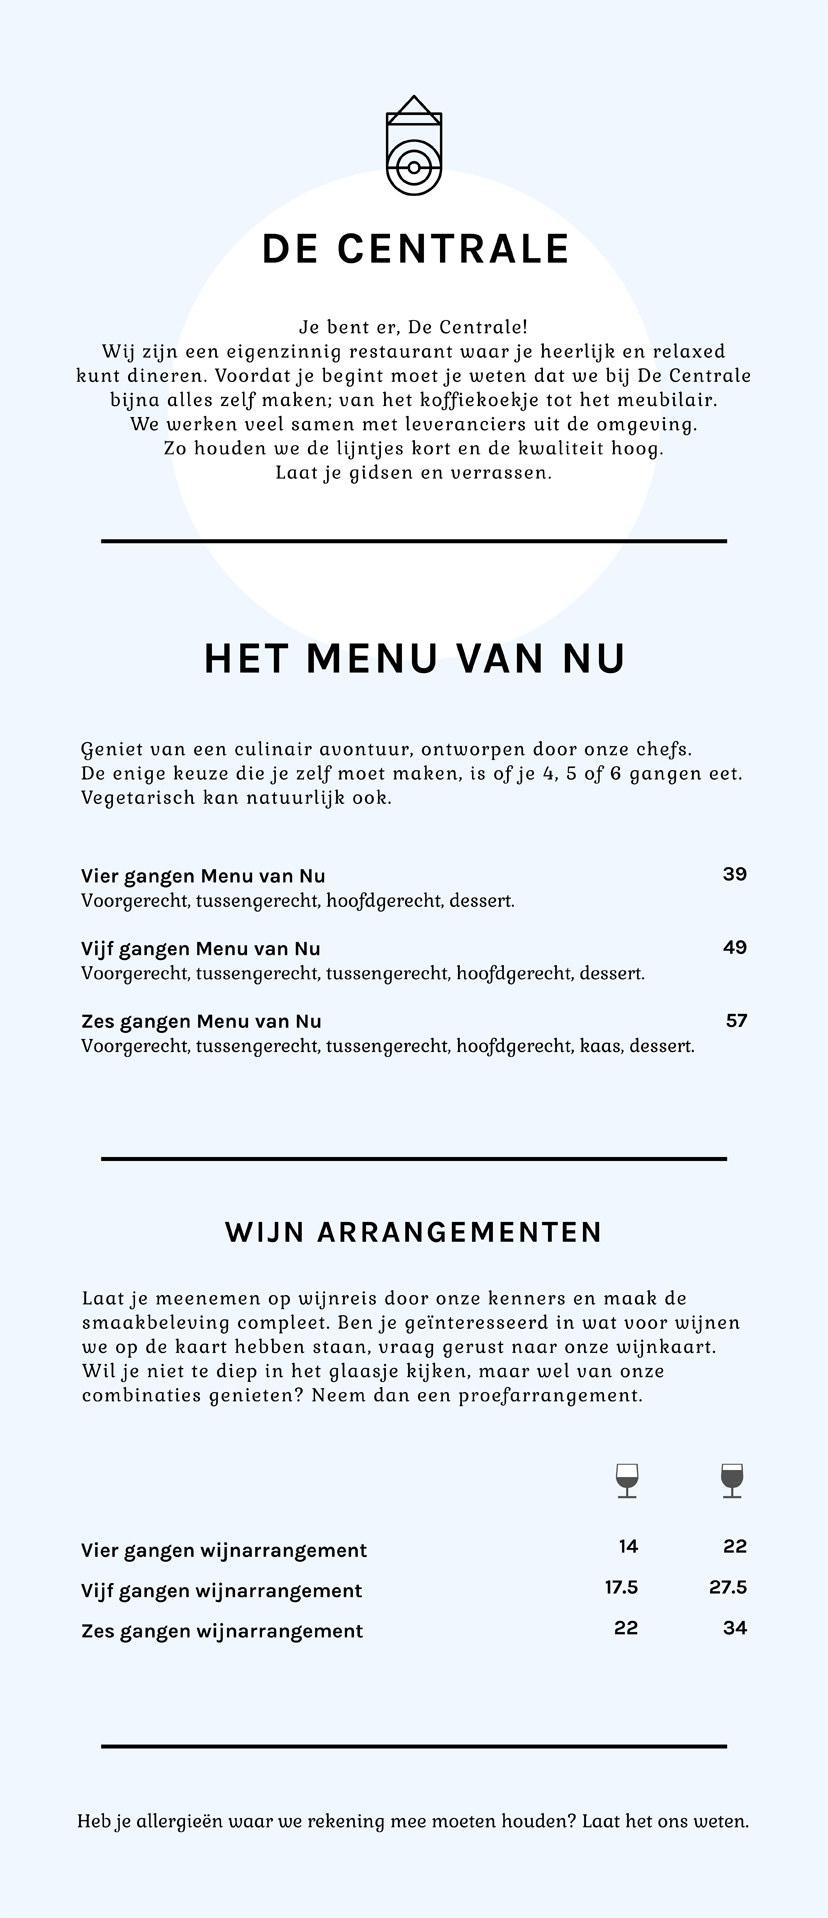
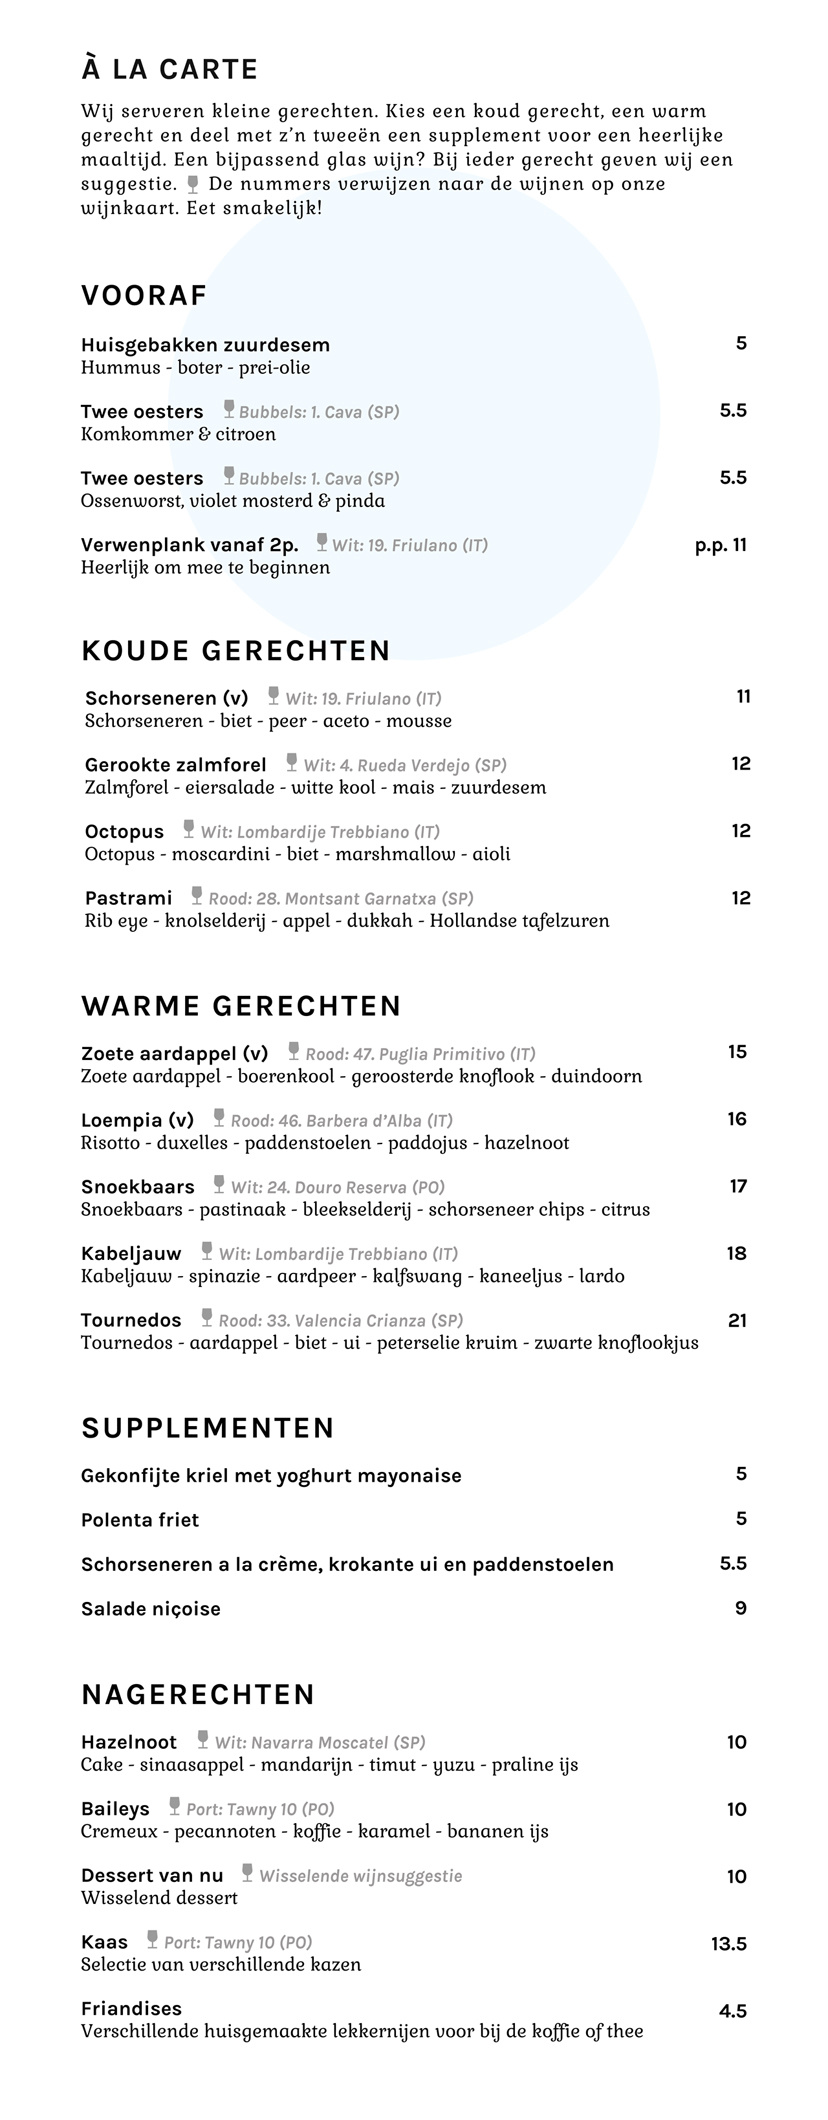
new menu en engels menu

diff --git a/src/client/menukaart-en/index.html b/src/client/menukaart-en/index.html
@@ -86,10 +86,10 @@
 
 	<!-- menukaart-content -->
 	<div class="container-s menukaart-content">
-		<a class="btn-secundair" style="width:100%; text-align: right;" href="/menukaart-en/" target="_blank">ENGLISH MENU<i class="material-icons md-24 btn-icon-secundair">arrow_forward</i></a> <br><br><img alt="menukaart achter" src="/img/menu/menu-achter.jpg" srcset="/img/menu/menu-achter-S.jpg 828w, /img/menu/menu-achter.jpg 1728w"
+		<a class="btn-secundair" style="width:100%; text-align: right;" href="/menukaart/" target="_blank">NEDERLANDS MENU<i class="material-icons md-24 btn-icon-secundair">arrow_backward</i></a> <br><br><img alt="menukaart achter engels" src="/img/menu/menu-achter-eng.jpg" srcset="/img/menu/menu-achter-eng-S.jpg 828w, /img/menu/menu-achter-eng.jpg 1728w"
 		 sizes="(min-width: 1536px) 1728px,
-   100vw"><br><br><br><img alt="menukaart voor" src="/img/menu/menu-voor.jpg"
-		 srcset="/img/menu/menu-voor-S.jpg 828w, /img/menu/menu-voor.jpg 1728w" sizes="(min-width: 1536px) 1728px,
+   100vw"><br><br><br><img alt="menukaart voor engels" src="/img/menu/menu-voor-eng.jpg"
+		 srcset="/img/menu/menu-voor-eng-S.jpg 828w, /img/menu/menu-voor-eng.jpg 1728w" sizes="(min-width: 1536px) 1728px,
    100vw">
 	</div>
 

diff --git a/src/client/style.css b/src/client/style.css
@@ -201,14 +201,7 @@ button:hover, button:focus, button:active {
     position:relative;
     font-size:20px;
     text-align: left;
-    font-weight: 700;
     letter-spacing:1.2px;  
-    text-transform:;
-    padding:0px;
-    padding-left:0px;
-    padding-right:0px;
-    border: 0px solid #000000;
-    background-color:#ffffff;
     color:#0F8D08;
     cursor:pointer;
 }
@@ -523,7 +516,7 @@ button:hover, button:focus, button:active {
     background: url(../img/menu/menu-bg.jpg) center/cover no-repeat ;
 }
 .menukaart-content{
-    padding-top:172px; 
+    padding-top:120px; 
 }
 .menukaart-content img{
     -webkit-box-shadow: 4px 4px 53px -10px rgba(0,0,0,0.75);
@@ -532,7 +525,7 @@ button:hover, button:focus, button:active {
 }
 @media (max-width: 480px) {
     .menukaart-content{
-      padding-top:115px;
+      padding-top:80px;
 }
 }
 
